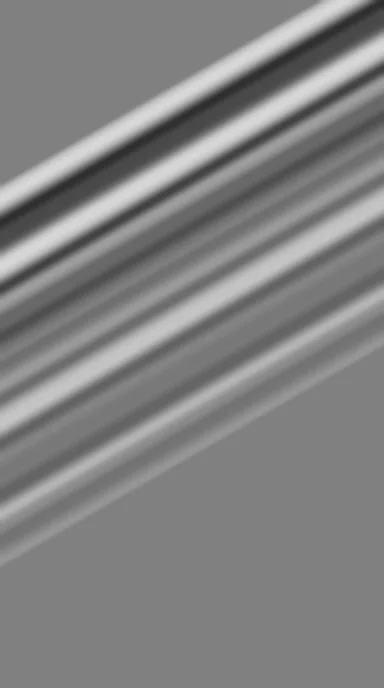
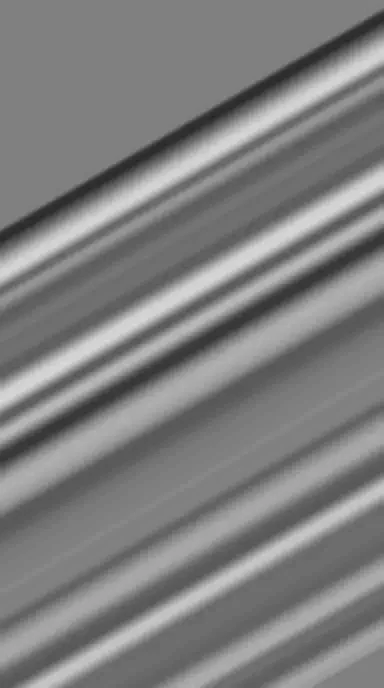
Nhánh Nữ: quay lại cảnh tulip trên lụa satin (bd5e157) theo ý Hiệp — bỏ cảnh bó hoa gói giấy
Claude-Session: https://claude.ai/code/session_0176htKEH6Y7Juox9HqogLEH

diff --git a/src/scenes/FemaleScene/femaleAssets.ts b/src/scenes/FemaleScene/femaleAssets.ts
@@ -14,11 +14,11 @@ import { ticketFromGuest, type Guest } from '../../state/guestStore'
 const F = '/assets/female/'
 
 export const FEMALE_IMG = {
-  // ?v=: đổi số mỗi lần sửa ảnh để trình duyệt không dùng bản cũ trong cache
-  sceneBg: F + 'scene-bg.webp?v=3', // ảnh cảnh Hiệp gửi 29/09 (lụa + bó hoa + KitKat + cánh hoa) — gốc: assets-src/H-scene-ref.png
-  bouquet: F + 'bouquet.webp?v=2', // bó hoa tách nền Hiệp gửi 29/09, đã căn khớp lên ảnh nền, phủ kín tấm 768×1376
-  bouquetShadow: F + 'bouquet-shadow.webp?v=2', // bóng bó hoa rơi lên phong bì (phủ kín tấm)
-  lightmap: F + 'lightmap.webp?v=2',
+  sceneBg: F + 'scene-bg.webp?v=2', // nền mới: lụa satin Hiệp gửi 28/09
+  bouquet: F + 'bouquet.webp',
+  bouquetShadow: F + 'bouquet-shadow.webp',
+  lightmap: F + 'lightmap.webp',
+  choc: F + 'choc.webp?v=3', // ?v=: đổi số mỗi lần sửa ảnh để trình duyệt không dùng bản cũ trong cache
   petal1: F + 'petal1.webp',
   petal2: F + 'petal2.webp',
   petal3: F + 'petal3.webp',
@@ -35,17 +35,26 @@ export const PLATE = { w: 768, h: 1376 }
 /** [x0, y0, x1, y1] trên tấm 768×1376 (được phép âm / tràn: vật thò ra ngoài khung hình như ảnh thật) */
 export type Box = readonly [number, number, number, number]
 
-/** Bó hoa: ảnh phủ kín tấm (đã căn đúng chỗ bó hoa trong ảnh nền). KitKat + cánh hoa đã có sẵn trong ảnh nền. */
-export const PLACE: Record<'bouquet', Box> = {
-  bouquet: [0, 0, 768, 1376],
+export const PLACE: Record<'bouquet' | 'choc' | 'petal1' | 'petal2' | 'petal3', Box> = {
+  bouquet: [-70, 468, 494, 1353],
+  choc: [450, 932, 690, 1278],
+  petal1: [612, 748, 692, 821],
+  petal2: [337, 1207, 407, 1313],
+  petal3: [800, 1300, 860, 1380], // ngoài khung — bố cục mẫu chỉ có 2 cánh
 }
 
-/** Cánh hoa rải thêm (ngoài những cánh có sẵn trong ảnh nền): [ảnh 1|2|3, khung, góc xoay] */
-export const SCATTER: readonly [1 | 2 | 3, Box, number][] = []
+/** Cánh hoa rải thêm cho đỡ trống: [ảnh 1|2|3, khung, góc xoay] */
+export const SCATTER: readonly [1 | 2 | 3, Box, number][] = [
+  [1, [548, 318, 618, 420], 28],
+  [3, [118, 236, 186, 312], -22],
+  [2, [404, 1086, 466, 1180], 64],
+  [1, [468, 828, 528, 916], -38],
+  [3, [178, 1284, 240, 1360], 16],
+]
 
-/** Chỗ phong bì nằm (khung THÂN phong bì, tỉ lệ 582×435) — trên mặt đá phía trên bó hoa, góc dưới-trái luồn dưới giấy gói bó hoa, nằm chéo (ENVELOPE_TILT). */
+/** Chỗ phong bì nằm (khung THÂN phong bì, tỉ lệ 582×435) — trên tấm lụa phía trên bó hoa, nằm chéo (xoay ở ENVELOPE_TILT). */
 export const ENVELOPE_TILT = 9 // độ; số dương = chéo từ trái xuống phải
-export const ENVELOPE_SPOT: Box = [200, 200, 640, 529]
+export const ENVELOPE_SPOT: Box = [222, 382, 666, 714]
 
 
 /** Tải + giải mã trước toàn bộ ảnh (gọi lúc khách bấm GỬI) → cảnh không bị hiện dần từng ảnh. */

diff --git a/src/scenes/FemaleScene/FemaleScene.tsx b/src/scenes/FemaleScene/FemaleScene.tsx
@@ -63,6 +63,7 @@ export default function FemaleScene({ popup, sceneA }: Props) {
       envInner: [...el.querySelectorAll<HTMLElement>('.fem__env-back, .fem__env-front, .fem__env-letter, .fem__env-glow')],
       spot: q('.fem__spot'),
       bouquet: q('.fem__bq'),
+      choc: q('.fem__choc'),
       petals: [...el.querySelectorAll<HTMLElement>('.fem__petal')],
       light: q('.fem__light'),
       cta: q('.fem__cta'),
@@ -119,10 +120,14 @@ export default function FemaleScene({ popup, sceneA }: Props) {
 
   return (
     <div className="fem" data-scene="female" ref={root}>
-      {/* CẢNH B (lớp sau): ảnh cảnh Hiệp gửi (lụa + bó hoa + KitKat + cánh hoa vẽ sẵn) — nằm DƯỚI nền cuộc gọi cho tới khi trang lật */}
+      {/* CẢNH B (lớp sau): nền lụa + đá, KitKat, cánh hoa — nằm DƯỚI nền cuộc gọi cho tới khi trang lật */}
       <div className="fem__b" aria-hidden>
         <div className="fem__plate">
           <img className="fem__bg" src={FEMALE_IMG.sceneBg} alt="" />
+          <img className="fem__obj fem__choc" src={FEMALE_IMG.choc} alt="" style={pct(PLACE.choc)} />
+          <img className="fem__obj fem__petal" src={FEMALE_IMG.petal1} alt="" style={pct(PLACE.petal1)} />
+          <img className="fem__obj fem__petal" src={FEMALE_IMG.petal2} alt="" style={pct(PLACE.petal2)} />
+          <img className="fem__obj fem__petal" src={FEMALE_IMG.petal3} alt="" style={pct(PLACE.petal3)} />
           {SCATTER.map(([n, box, rot], i) => (
             <img key={i} className="fem__obj fem__petal" src={FEMALE_IMG[`petal${n}`]} alt=""
               style={{ ...pct(box), transform: `rotate(${rot}deg)` }} />
@@ -165,10 +170,10 @@ export default function FemaleScene({ popup, sceneA }: Props) {
         </div>
       </div>
 
-      {/* CẢNH B (lớp trước): bó hoa tách nền (khớp đúng chỗ bó hoa trong ảnh nền) đè lên mép phong bì */}
+      {/* CẢNH B (lớp trước): bó hoa đè lên mép trái phong bì + vệt nắng */}
       <div className="fem__b fem__b--front" aria-hidden>
         <div className="fem__plate">
-          {/* bó hoa + bóng đổ của nó rơi lên phong bì (ảnh phủ kín tấm, đã căn khớp sẵn) */}
+          {/* bó hoa + bóng đổ của nó (bóng rơi lên phong bì và lụa) — đung đưa cùng nhau */}
           <div className="fem__bq" style={pct(PLACE.bouquet)}>
             <img className="fem__bq-shadow" src={FEMALE_IMG.bouquetShadow} alt="" />
             <img className="fem__bouquet" src={FEMALE_IMG.bouquet} alt="" />

diff --git a/src/animations/gsap/femaleTransitionTimeline.ts b/src/animations/gsap/femaleTransitionTimeline.ts
@@ -38,6 +38,7 @@ export type FemaleRefs = {
   flap: HTMLElement
   spot: HTMLElement // chỗ phong bì nằm trong cảnh tulip
   bouquet: HTMLElement
+  choc: HTMLElement
   petals: HTMLElement[]
   light: HTMLElement
   cta: HTMLElement
@@ -173,10 +174,11 @@ export function femaleTransitionTimeline(o: FemaleRefs, onStep: (step: FemaleSte
   return tl
 }
 
-/** Cảnh tulip "thở": phong bì nghiêng 1–2°, nắng dịch chậm. Bó hoa ĐỨNG YÊN (lớp bó hoa phải khớp đúng bó hoa trong ảnh nền). */
-export function femaleIdle(o: { petals: HTMLElement[]; envFloat: HTMLElement; light: HTMLElement }) {
+/** Cảnh tulip "thở": hoa đung đưa rất nhẹ, cánh hoa trôi li ti, phong bì nghiêng 1–2°, nắng dịch chậm. */
+export function femaleIdle(o: { bouquet: HTMLElement; petals: HTMLElement[]; envFloat: HTMLElement; light: HTMLElement }) {
   const tl = gsap.timeline()
-  tl.to(o.envFloat, { rotation: 1.2, y: -2, duration: 2.8, ease: EASE.sway, yoyo: true, repeat: -1 }, 0.4)
+  tl.to(o.bouquet, { rotation: 0.6, duration: 3.4, ease: EASE.sway, yoyo: true, repeat: -1, transformOrigin: '15% 100%' }, 0)
+    .to(o.envFloat, { rotation: 1.2, y: -2, duration: 2.8, ease: EASE.sway, yoyo: true, repeat: -1 }, 0.4)
     .to(o.light, { xPercent: 6, duration: 7, ease: EASE.sway, yoyo: true, repeat: -1 }, 0)
   o.petals.forEach((p, i) =>
     tl.to(p, { y: i % 2 ? 2 : -2, rotation: i % 2 ? -2 : 2, duration: 2.6 + i * 0.5, ease: EASE.sway, yoyo: true, repeat: -1 }, i * 0.3),

diff --git a/src/scenes/FemaleScene/FemaleScene.css b/src/scenes/FemaleScene/FemaleScene.css
@@ -74,13 +74,16 @@
 }
 .fem__bq-shadow {
   position: absolute;
-  /* ảnh bóng phủ kín tấm như ảnh bó hoa (đã dịch sẵn xuống-phải) */
-  inset: 0;
-  width: 100%;
-  height: 100%;
+  /* ảnh bóng = bó hoa + đệm 60px mỗi bên (ảnh 851×1342 → 971×1462), dịch xuống-phải */
+  left: -3.2%;
+  top: -0.6%;
+  width: 114.1%;
+  height: 108.9%;
+  max-width: none;
 }
 /* nắng từ trên-trái → bóng đổ xuống dưới-phải */
 /* bóng 2 lớp: bóng tiếp xúc (sát, đậm) + bóng đổ mềm (nắng trên-trái → đổ xuống-phải) */
+.fem__choc { filter: drop-shadow(1.5px 2.5px 1.5px rgba(55, 28, 18, 0.38)) drop-shadow(7px 11px 10px rgba(70, 40, 25, 0.22)); }
 .fem__petal { filter: drop-shadow(1px 1.5px 1px rgba(120, 60, 55, 0.28)) drop-shadow(4px 7px 6px rgba(120, 70, 60, 0.16)); }
 .fem__spot {
   position: absolute;
